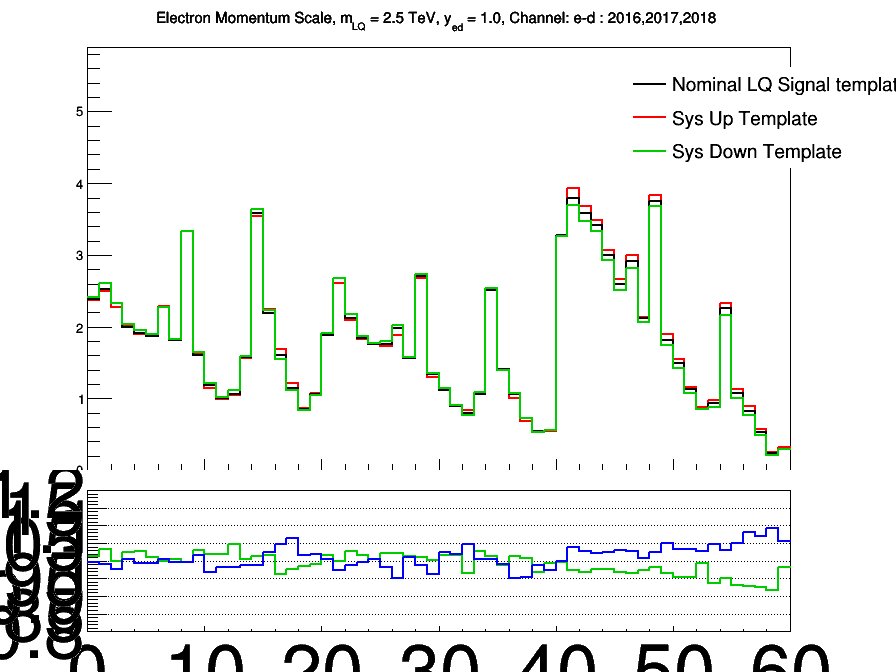
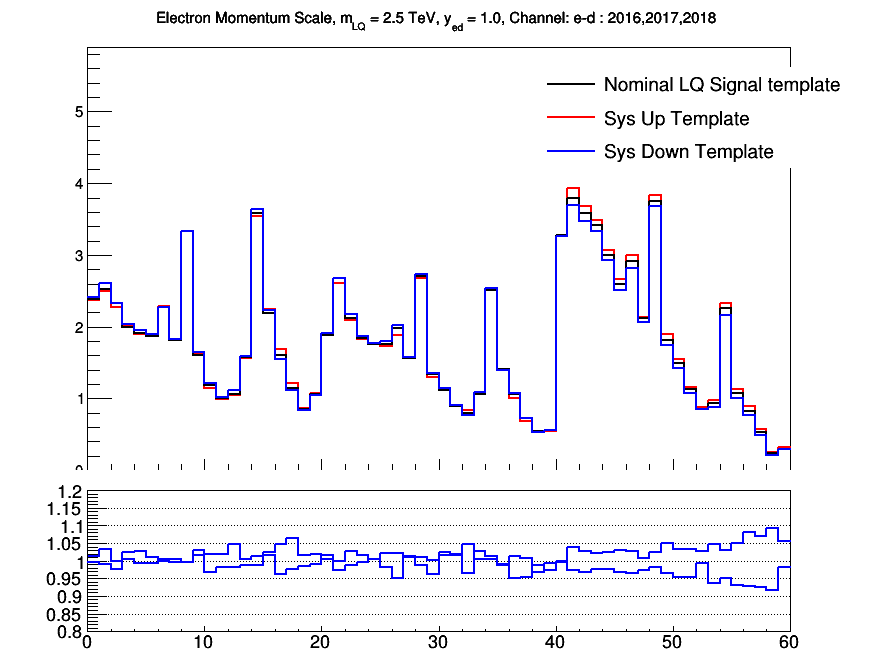
increased legend and axis sizes

diff --git a/plots/Fitting/LQ_sys_check.C b/plots/Fitting/LQ_sys_check.C
@@ -160,7 +160,7 @@ void LQ_sys_check(){
                 
                 h1_mumu_sys_up->SetLineColor(kRed);
                 h1_mumu_sys_up->SetLineWidth(2);
-                h1_mumu_sys_down->SetLineColor(kGreen+1);
+                h1_mumu_sys_down->SetLineColor(kBlue);
                 h1_mumu_sys_down->SetLineWidth(2);
                 
                 if(year==2016){
@@ -278,7 +278,7 @@ void LQ_sys_check(){
 
             h1_elel_sys_up->SetLineColor(kRed);
             h1_elel_sys_up->SetLineWidth(2);
-            h1_elel_sys_down->SetLineColor(kGreen+1);
+            h1_elel_sys_down->SetLineColor(kBlue);
             h1_elel_sys_down->SetLineWidth(2);
 
             if(year==2016){
@@ -370,13 +370,13 @@ if(do_muons){
     pad1->cd();
     h1_mumu_sys_up_comb->SetMaximum(h1_mumu_sys_up_comb->GetMaximum()*1.5);
     h1_mumu_sys_up_comb->SetTitle(mu_title);
-    h1_mumu_sys_up_comb->GetYaxis()->SetLabelSize(0.03);
+    h1_mumu_sys_up_comb->GetYaxis()->SetLabelSize(0.035);
     h1_mumu_sys_up_comb->Draw("hist");
     h1_mumu_plain_comb->Draw("hist same");
     h1_mumu_sys_down_comb->Draw("hist same");
 
     gStyle->SetLegendBorderSize(0);
-    TLegend *leg1 = new TLegend(0.7, 0.75, 0.9, 0.9);
+    TLegend *leg1 = new TLegend(0.6, 0.75, 0.9, 0.9);
     leg1->SetTextSize(0.03);
     leg1->AddEntry(h1_mumu_plain_comb, "Nominal LQ Signal template", "l");
     leg1->AddEntry(h1_mumu_sys_up_comb, "Sys Up Template", "l");
@@ -405,9 +405,9 @@ if(do_muons){
     ratio_down->SetMinimum(0.8);
     ratio_down->SetMaximum(1.2);
     ratio_down->SetTitle("");
-    ratio_down->SetLineColor(kGreen+1);
-    ratio_down->GetXaxis()->SetLabelSize(0.4);
-    ratio_down->GetYaxis()->SetLabelSize(0.4);
+    ratio_down->SetLineColor(kBlue);
+    ratio_down->GetXaxis()->SetLabelSize(0.1);
+    ratio_down->GetYaxis()->SetLabelSize(0.1);
     ratio_down->Draw("hist");
            // ratio_down->SetMarkerStyle(21);
     ratio_up->SetLineColor(kBlue);
@@ -457,13 +457,13 @@ if(do_electrons){
     pad1->cd();
     h1_elel_sys_up_comb->SetMaximum(h1_elel_sys_up_comb->GetMaximum()*1.5);
     h1_elel_sys_up_comb->SetTitle(el_title);
-    h1_elel_sys_up_comb->GetYaxis()->SetLabelSize(0.03);
+    h1_elel_sys_up_comb->GetYaxis()->SetLabelSize(0.035);
     h1_elel_sys_up_comb->Draw("hist");
     h1_elel_plain_comb->Draw("hist same");
     h1_elel_sys_down_comb->Draw("hist same");
 
     gStyle->SetLegendBorderSize(0);
-    TLegend *leg1 = new TLegend(0.7, 0.75, 0.9, 0.9);
+    TLegend *leg1 = new TLegend(0.6, 0.75, 0.9, 0.9);
     leg1->SetTextSize(0.03);
     leg1->AddEntry(h1_elel_plain_comb, "Nominal LQ Signal template", "l");
     leg1->AddEntry(h1_elel_sys_up_comb, "Sys Up Template", "l");
@@ -489,9 +489,9 @@ if(do_electrons){
     ratio_down->SetMinimum(0.8);
     ratio_down->SetMaximum(1.2);
     ratio_down->SetTitle("");
-    ratio_down->SetLineColor(kGreen+1);
-    ratio_down->GetXaxis()->SetLabelSize(0.4);
-    ratio_down->GetYaxis()->SetLabelSize(0.4);
+    ratio_down->SetLineColor(kBlue);
+    ratio_down->GetXaxis()->SetLabelSize(0.1);
+    ratio_down->GetYaxis()->SetLabelSize(0.1);
     ratio_down->Draw("hist");
            // ratio_down->SetMarkerStyle(21);
     ratio_up->SetLineColor(kBlue);
